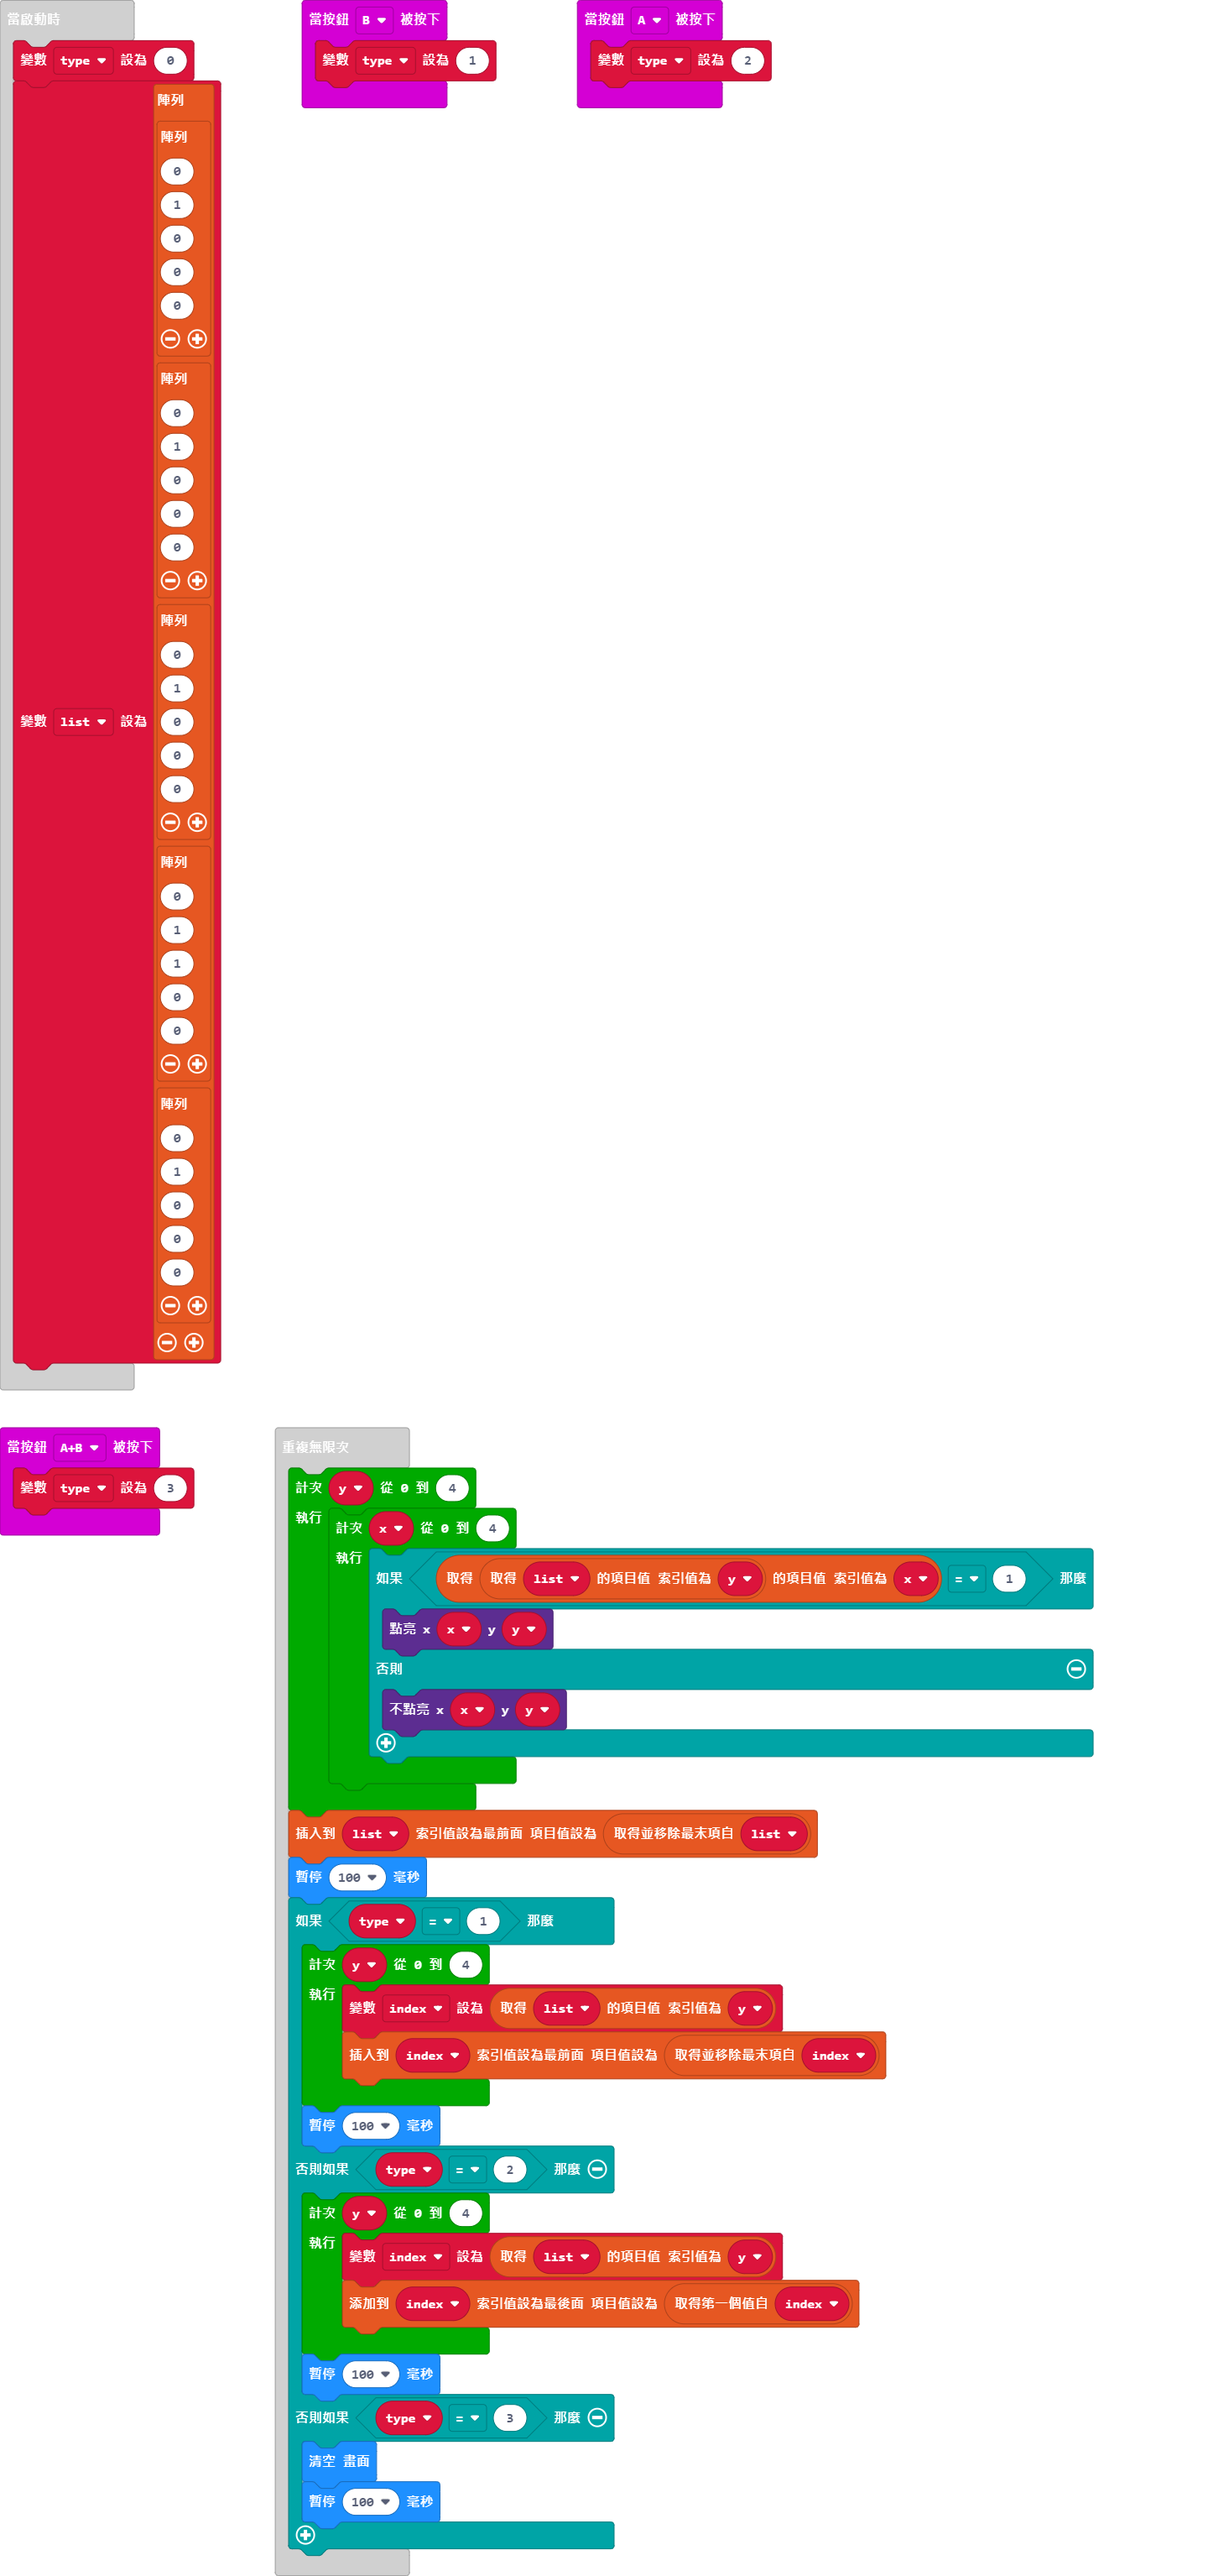
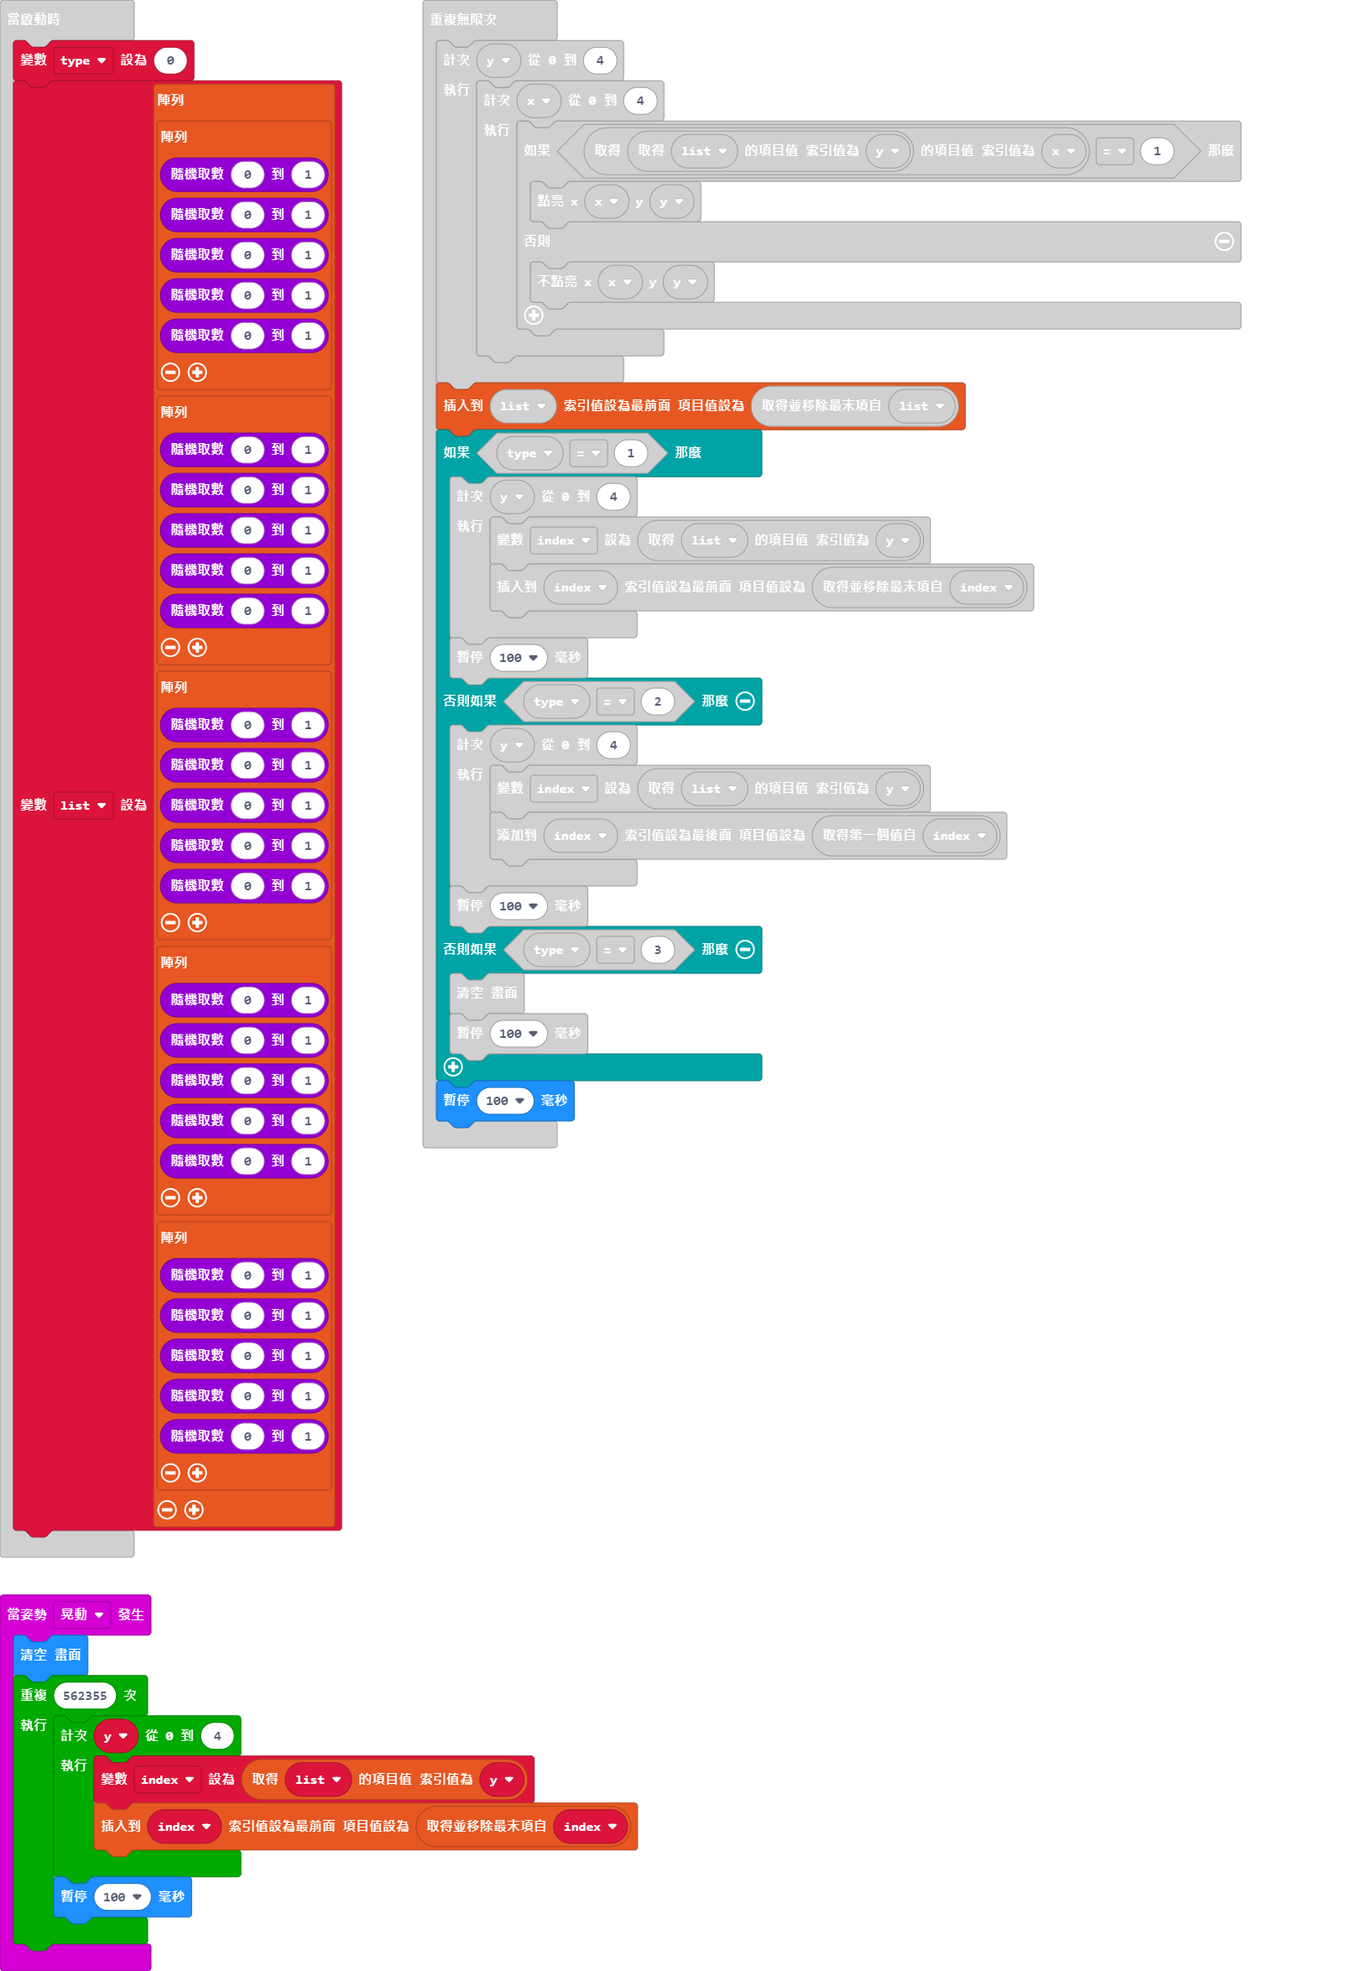
再加油。

diff --git a/main.ts b/main.ts
@@ -1,6 +1,16 @@
 input.onButtonPressed(Button.A, function () {
     _type = 2
 })
+input.onGesture(Gesture.Shake, function () {
+    basic.clearScreen()
+    for (let index2 = 0; index2 < 562355; index2++) {
+        for (let y = 0; y <= 4; y++) {
+            index = list[y]
+            index.unshift(index.pop())
+        }
+        basic.pause(100)
+    }
+})
 input.onButtonPressed(Button.AB, function () {
     _type = 3
 })
@@ -8,43 +18,44 @@ input.onButtonPressed(Button.B, function () {
     _type = 1
 })
 let index: number[] = []
+let list: number[][] = []
 let _type = 0
 _type = 0
-let list = [
+list = [
 [
-0,
-1,
-0,
-0,
-0
+randint(0, 1),
+randint(0, 1),
+randint(0, 1),
+randint(0, 1),
+randint(0, 1)
 ],
 [
-0,
-1,
-0,
-0,
-0
+randint(0, 1),
+randint(0, 1),
+randint(0, 1),
+randint(0, 1),
+randint(0, 1)
 ],
 [
-0,
-1,
-0,
-0,
-0
+randint(0, 1),
+randint(0, 1),
+randint(0, 1),
+randint(0, 1),
+randint(0, 1)
 ],
 [
-0,
-1,
-1,
-0,
-0
+randint(0, 1),
+randint(0, 1),
+randint(0, 1),
+randint(0, 1),
+randint(0, 1)
 ],
 [
-0,
-1,
-0,
-0,
-0
+randint(0, 1),
+randint(0, 1),
+randint(0, 1),
+randint(0, 1),
+randint(0, 1)
 ]
 ]
 basic.forever(function () {
@@ -58,7 +69,6 @@ basic.forever(function () {
         }
     }
     list.unshift(list.pop())
-    basic.pause(100)
     if (_type == 1) {
         for (let y = 0; y <= 4; y++) {
             index = list[y]
@@ -75,4 +85,5 @@ basic.forever(function () {
         basic.clearScreen()
         basic.pause(100)
     }
+    basic.pause(100)
 })
